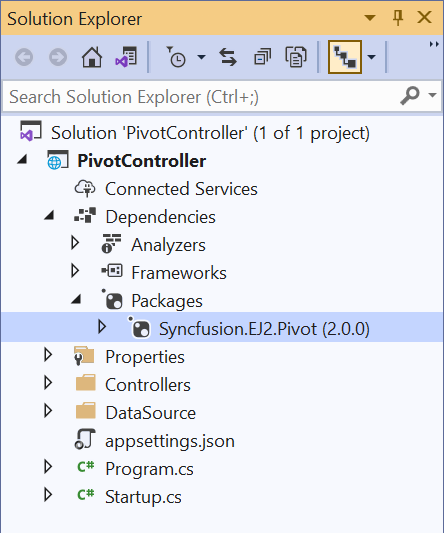
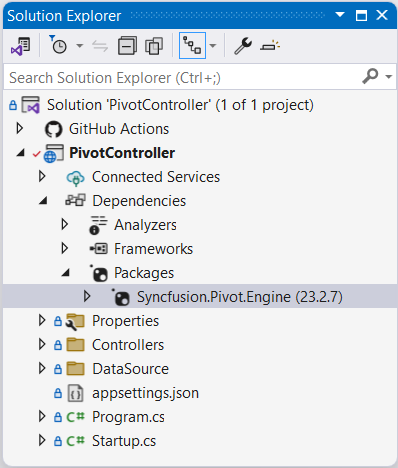
859634: Updating the sever side engine in documentation.

diff --git a/ej2-javascript/pivotview/js/server-side-pivot-engine.md b/ej2-javascript/pivotview/js/server-side-pivot-engine.md
@@ -13,7 +13,7 @@ domainurl: ##DomainURL##
 
 # Server side pivot engine in ##Platform_Name## Pivotview control
 
-This section briefs the Syncfusion assembly [`Syncfusion.EJ2.Pivot`](https://www.nuget.org/packages/Syncfusion.EJ2.Pivot/), which is used in a server-side application to perform all Pivot calculations such as aggregation, filtering, sorting, grouping, and so on, and only the information to be displayed in the Pivot Table's viewport is passed to the client-side (browser) via web service (Web API) rather than the entire data source. It reduces network traffic and improves the rendering performance of the Pivot Table, especially when dealing with large amounts of data. It also works best with virtual scrolling enabled and supports all the Pivot Table's existing features.
+This section briefs the Syncfusion assembly [`Syncfusion.Pivot.Engine`](https://www.nuget.org/packages/Syncfusion.Pivot.Engine), which is used in a server-side application to perform all Pivot calculations such as aggregation, filtering, sorting, grouping, and so on, and only the information to be displayed in the Pivot Table's viewport is passed to the client-side (browser) via web service (Web API) rather than the entire data source. It reduces network traffic and improves the rendering performance of the Pivot Table, especially when dealing with large amounts of data. It also works best with virtual scrolling enabled and supports all the Pivot Table's existing features.
 
 ## Quick steps to render the Pivot Table by using the server-side Pivot Engine
 
@@ -27,7 +27,7 @@ This section briefs the Syncfusion assembly [`Syncfusion.EJ2.Pivot`](https://www
 * **DataSource.cs** file under **DataSource** folder – This file has model classes to define the structure of the data sources.
 * The sample data source files **sales.csv** and **sales-analysis.json** under **DataSource** folder.
 
-**3.** Open the **PivotController** application in Visual Studio where the Syncfusion library [`Syncfusion.EJ2.Pivot`](https://www.nuget.org/packages/Syncfusion.EJ2.Pivot/) will be downloaded automatically from the nuget.org site.
+**3.** Open the **PivotController** application in Visual Studio where the Syncfusion library [`Syncfusion.Pivot.Engine`](https://www.nuget.org/packages/Syncfusion.Pivot.Engine) will be downloaded automatically from the nuget.org site.
 
 ![Solution Explorer](./images/solution-explorer.png)
 

diff --git a/ej2-javascript/pivotview/ts/server-side-pivot-engine.md b/ej2-javascript/pivotview/ts/server-side-pivot-engine.md
@@ -13,7 +13,7 @@ domainurl: ##DomainURL##
 
 # Server side pivot engine in ##Platform_Name## Pivotview control
 
-This section briefs the Syncfusion assembly [`Syncfusion.EJ2.Pivot`](https://www.nuget.org/packages/Syncfusion.EJ2.Pivot/), which is used in a server-side application to perform all Pivot calculations such as aggregation, filtering, sorting, grouping, and so on, and only the information to be displayed in the Pivot Table's viewport is passed to the client-side (browser) via web service (Web API) rather than the entire data source. It reduces network traffic and improves the rendering performance of the Pivot Table, especially when dealing with large amounts of data. It also works best with virtual scrolling enabled and supports all the Pivot Table's existing features.
+This section briefs the Syncfusion assembly [`Syncfusion.Pivot.Engine`](https://www.nuget.org/packages/Syncfusion.Pivot.Engine), which is used in a server-side application to perform all Pivot calculations such as aggregation, filtering, sorting, grouping, and so on, and only the information to be displayed in the Pivot Table's viewport is passed to the client-side (browser) via web service (Web API) rather than the entire data source. It reduces network traffic and improves the rendering performance of the Pivot Table, especially when dealing with large amounts of data. It also works best with virtual scrolling enabled and supports all the Pivot Table's existing features.
 
 ## Quick steps to render the Pivot Table by using the server-side Pivot Engine
 
@@ -27,7 +27,7 @@ This section briefs the Syncfusion assembly [`Syncfusion.EJ2.Pivot`](https://www
 * **DataSource.cs** file under **DataSource** folder – This file has model classes to define the structure of the data sources.
 * The sample data source files **sales.csv** and **sales-analysis.json** under **DataSource** folder.
 
-**3.** Open the **PivotController** application in Visual Studio where the Syncfusion library [`Syncfusion.EJ2.Pivot`](https://www.nuget.org/packages/Syncfusion.EJ2.Pivot/) will be downloaded automatically from the nuget.org site.
+**3.** Open the **PivotController** application in Visual Studio where the Syncfusion library [`Syncfusion.Pivot.Engine`](https://www.nuget.org/packages/Syncfusion.Pivot.Engine) will be downloaded automatically from the nuget.org site.
 
 ![Solution Explorer](./images/solution-explorer.png)
 
